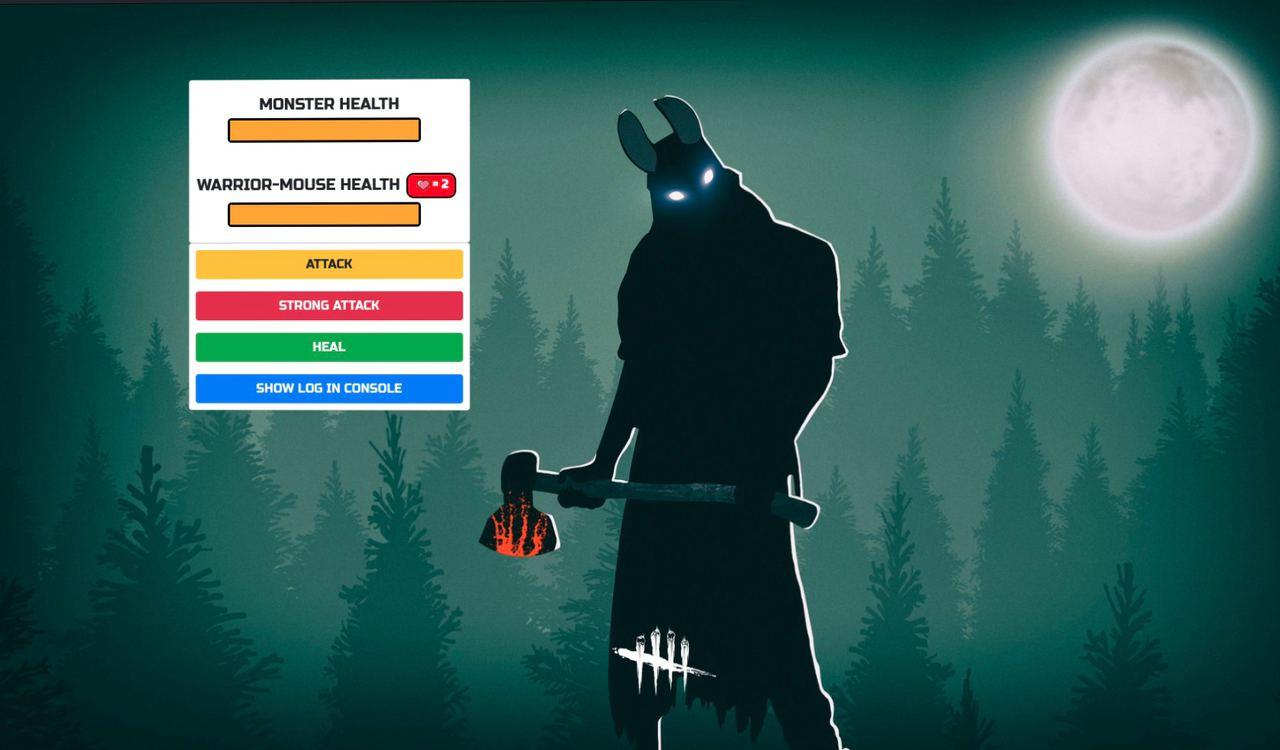
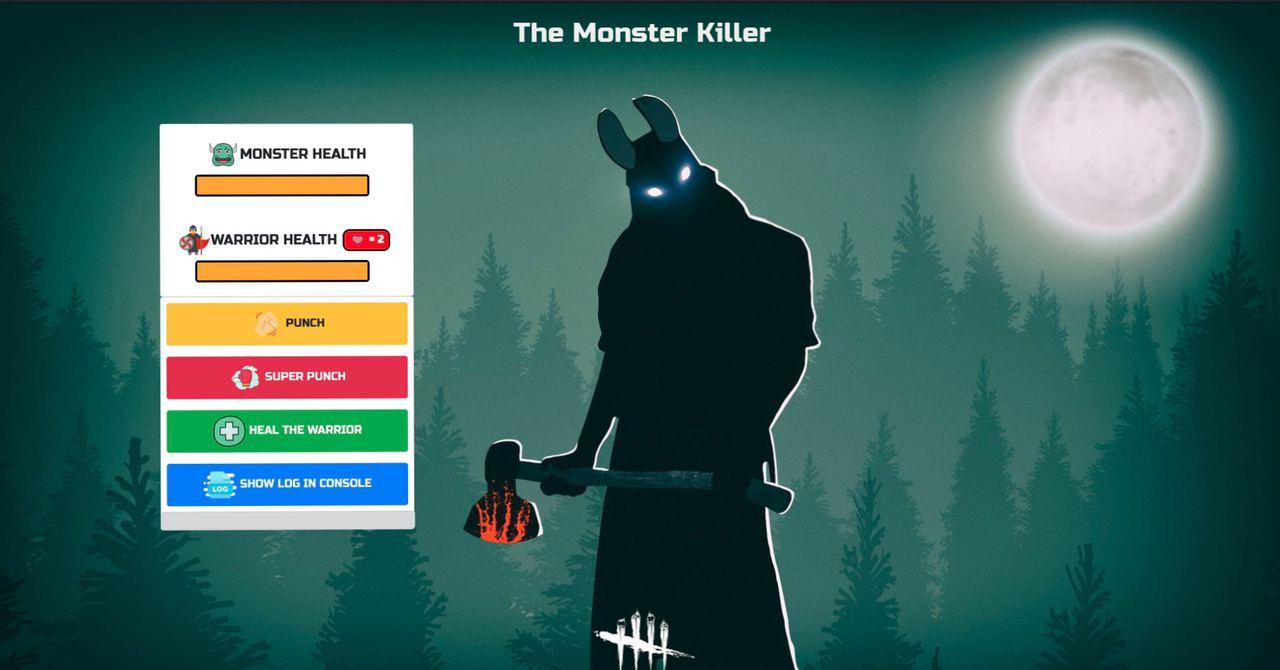
Verified by Cia v1.2.8

diff --git a/index.html b/index.html
@@ -6,25 +6,41 @@
     <link href="https://fonts.googleapis.com/css2?family=Russo+One&display=swap" rel="stylesheet">
     <link rel="stylesheet" href="https://stackpath.bootstrapcdn.com/bootstrap/4.5.2/css/bootstrap.min.css" integrity="sha384-JcKb8q3iqJ61gNV9KGb8thSsNjpSL0n8PARn9HuZOnIxN0hoP+VmmDGMN5t9UJ0Z" crossorigin="anonymous">
     <meta http-equiv="X-UA-Compatible" content="ie=edge" />
+    <a href="https://icons8.com/icon/pKiOVDf7wA-P/cute-monster"></a>
     <a href="https://icons8.com/icon/64452/heart"></a>
     <a href="https://icons8.com/icon/81644/hospital"></a>
     <a href="https://icons8.com/icon/Em1h656j2OAY/boxing-glove"></a>
     <a href="https://icons8.com/icon/_VsvtdQCsxq4/log"></a>
     <a href="https://icons8.com/icon/17653/fist"></a>
+    <a href="https://icons8.com/icon/33097/horror"></a>
+    <a href="https://icons8.com/icon/39955/iron-age-warrior"></a>
+    <a href="https://icons8.com/icon/32289/joker-suicide-squad"></a>
     <title>Monster Killer</title>
     <link rel="stylesheet" href="assets/styles/app.css" />
     <script src="assets/scripts/vendor.js" defer></script>
     <script src="assets/scripts/app.js" defer></script>
   </head>
   <body>
-<p class="h1 theHeader">The Monster Killer</p>
+<p class="h1 theHeader">
+  The Monster Killer 
+</p>
     <div class="cards">
   <div class="card" style="width: 23rem; margin: auto;">
-    <h2>MONSTER HEALTH</h2>
+    <h2>
+      <img src="https://img.icons8.com/plasticine/48/000000/cute-monster.png"/>
+      MONSTER HEALTH
+    </h2>
     <div class="progress-bar playerBar">
       <progress id="monster-health" max="100" value="100">100%</progress>
     </div>
-    <h2>WARRIOR HEALTH<span id="bonus-life"> <img src="https://img.icons8.com/cotton/24/000000/like--v1.png"/>= 2</span></h2>
+    <h2>
+      <img src="https://img.icons8.com/color/48/000000/iron-age-warrior.png"/>
+      WARRIOR HEALTH
+      <span id="bonus-life"> 
+        <img src="https://img.icons8.com/cotton/24/000000/like--v1.png"/>
+        = 2
+      </span>
+      </h2>
     <div class="progress-bar playerBar">
       <progress id="player-health" class="progress-bar" role="progressbar" max="100" value="100">100%</progress>
     </div>

diff --git a/assets/scripts/app.js b/assets/scripts/app.js
@@ -1,7 +1,7 @@
 
-const ATTACK_VALUE = 10; // Player hits the Monster
-const STRONG_ATTACK_VALUE = 20; // Super hit! They gonna hit each other
-const MONSTER_ATTACK_VALUE = 25; // Monster hits the player back!
+const ATTACK_VALUE = 15; // Player hits the Monster
+const STRONG_ATTACK_VALUE = 25; // Super hit! They gonna hit each other
+const MONSTER_ATTACK_VALUE = 20; // Monster hits the player back!
 //const STRONG_MONSTER_ATTACK_VALUE = 20; I think I don't need it anymore!
 const HEAL_VALUE = 17; // HEAL the Player!
 
